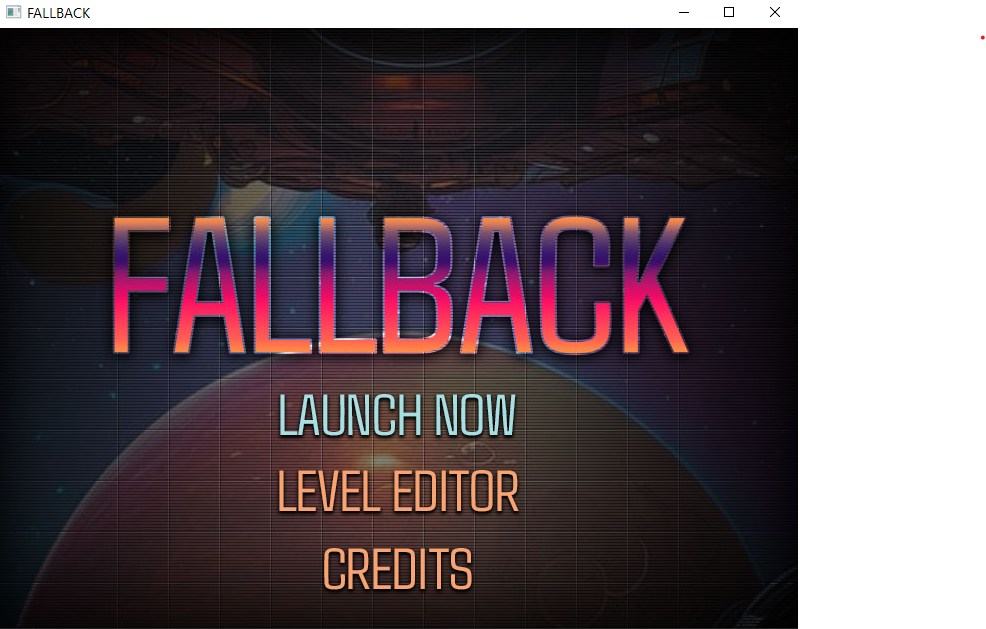
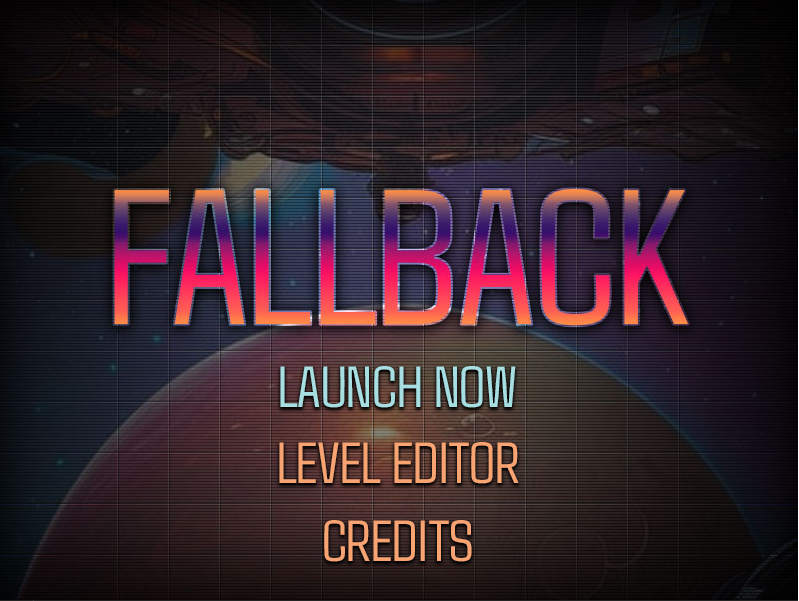
added version number to title screen

diff --git a/source/constants.h b/source/constants.h
@@ -48,7 +48,6 @@ const char BLOCK_PATH[] = "pictures\\blocks.png";
 const char NG_BUTTON_PATH[] = "pictures\\buttons.png";
 const char POWERUP_PATH[] = "pictures\\powerup-letters.png";
 
-
 // window
 const char CLASS_NAME[] = "Breakout";
 const char GAME_TITLE[] = "FALLBACK";
@@ -57,6 +56,7 @@ const UINT GAME_WIDTH =  800;               // width of game in pixels
 const UINT GAME_HEIGHT = 600;               // height of game in pixels
  
 // game
+const char VERSION_NUMBER[] = "1.0.0";
 const int POWERUP_POINT_VALUE = 50;
 const double PI = 3.14159265;
 const float FRAME_RATE  = 200.0f;               // the target frame rate (frames/sec)

diff --git a/source/fallback.cpp b/source/fallback.cpp
@@ -1162,6 +1162,7 @@ void Fallback::renderTitleScreen()
 		creditsButton.draw();
 	}
 
+	console.setLogText(VERSION_NUMBER);
 	console.renderLog();
 }
 
